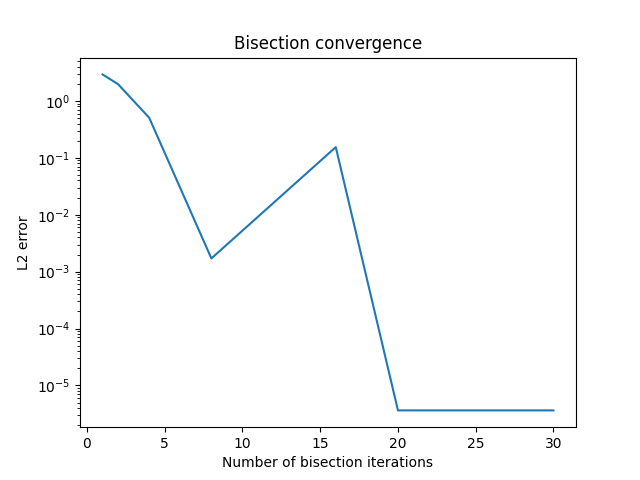
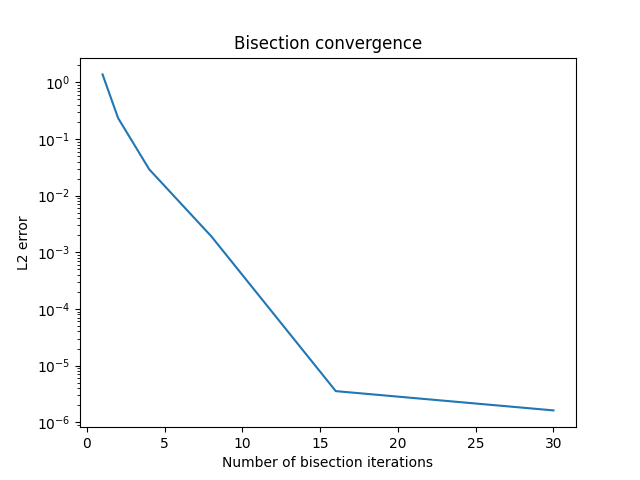
fixed numerical tolerances used in particle traj loop to improve robustness of precision checks + added better examples on curved meshes

diff --git a/test_curved_cell_crossings.py b/test_curved_cell_crossings.py
@@ -6,15 +6,15 @@ from particle_traj_loop import move_particles_in_ref_space
 
 # Define a flat reference mesh
 mesh = UnitSquareMesh(10, 10)
-print("Mesh coords: ", mesh.coordinates.dat.data_ro[:5])
+# print("Mesh coords: ", mesh.coordinates.dat.data_ro[:5])
 
 # Lift coordinates into a degree 2 space
+# by define a non-linear map (s,t) -> (x, y) where
+# (s,t) are the coords. of the flat mesh
+# (x,y) are the coords. of the curved mesh
 V = VectorFunctionSpace(mesh, "CG", 2)
 v = Function(V)
 
-## Define a non-linear map (s,t) -> (x, y)
-# (s,t) are the coords. of the flat mesh
-# (x,y) are the coords. of the curved mesh
 s, t = SpatialCoordinate(mesh)
 
 # x_new = s
@@ -27,13 +27,52 @@ v.interpolate(
     as_vector([x_new, y_new])
 )
 curved_mesh = Mesh(v)
-print("Curved mesh coords: ", curved_mesh.coordinates.dat.data_ro[:5])
+# print("Curved mesh coords: ", curved_mesh.coordinates.dat.data_ro[:5])
 
-fig, axes = plt.subplots()
-triplot(curved_mesh, axes=axes)
-axes.legend()
-plt.savefig(f"plots/curved_mesh.png", dpi=150)
-plt.close(fig)
+# fig, axes = plt.subplots()
+# triplot(curved_mesh, axes=axes)
+# axes.legend()
+# plt.savefig(f"plots/curved_mesh.png", dpi=150)
+# plt.close(fig)
 
-output = VTKFile(f"plots/curved_mesh.pvd")
-output.write(curved_mesh)
+# output = VTKFile(f"plots/curved_mesh.pvd")
+# output.write(curved_mesh)
+
+# Define the particle VOM
+# Place 10 particles at midpoints of the diagonal cell edges: 0.05, 0.15, ..., 0.95
+# These lie on y=x but avoid mesh vertices (which are at multiples of 0.1 for a 10x10 mesh)
+n_particles = 10
+x_diag = np.arange(n_particles) / 10.0 + 0.05
+x0 = np.column_stack([x_diag, x_diag])
+particle_vom = VertexOnlyMesh(curved_mesh, x0)
+x0_vom = particle_vom.coordinates.dat.data_ro.copy()
+print("Initial particle positions: ", particle_vom.coordinates.dat.data_ro)
+
+# Assign per particle velocities
+V = VectorFunctionSpace(particle_vom, "DG", 0, dim=particle_vom.geometric_dimension)
+v = Function(V, name="particle_velocity")
+V_io = VectorFunctionSpace(particle_vom.input_ordering, "DG", 0, dim=particle_vom.geometric_dimension)
+v_io = Function(V_io, name="io_particle_velocity")
+
+v0 = np.array( [0.01, 0.02])
+v_io.dat.data_wo[:] = np.tile(v0, (n_particles, 1))
+v.interpolate(v_io)
+v0_vom = v.dat.data_ro.copy()
+print("Initial particle velocities: ", v0_vom)
+
+T = 7.5
+dt = 0.1
+T_final, removed_particles = move_particles_in_ref_space(particle_vom, mesh, v, dt, T, t=0.0, plot=False)
+
+print()
+print("Final particle positions: ", particle_vom.coordinates.dat.data_ro)
+print("Removed particles: ", removed_particles)
+
+x_final_expected = x0_vom + T_final * v0_vom
+
+keep = np.ones(x_final_expected.shape[0], dtype=bool)
+keep[removed_particles] = False
+x_final_expected_survived = x_final_expected[keep]
+
+print("Expected final positions: ", x_final_expected_survived)
+print("Error: ", np.linalg.norm(x_final_expected_survived - particle_vom.coordinates.dat.data_ro, axis=1))

diff --git a/test_curved_coarse_mesh.py b/test_curved_coarse_mesh.py
@@ -1,0 +1,34 @@
+from firedrake import *
+from firedrake.pyplot import triplot
+import matplotlib.pyplot as plt
+import numpy as np
+
+# Define a flat reference mesh
+mesh = UnitSquareMesh(5, 5) 
+print("Mesh coords: ", mesh.coordinates.dat.data_ro[:5])
+
+# Lift coordinates into a degree 2 space
+V = VectorFunctionSpace(mesh, "CG", 5)
+v = Function(V)
+print("Degree 2 coords: ", v.dat.data_ro[:5])
+
+s,t = SpatialCoordinate(mesh)
+
+# NOTE: sine reaches its full amplitude at the midpoint (s,t) = (0.5, 0.5) giving us
+# a much more visible curvature than using an exact degree 5 polynomial such as
+# 2.0 * s*(1-s)*t*(1-t)*(s+t) which has a tiny max. value hence produces a negligible displacement
+# (use high amplitude to counter suppression)
+x_new = s
+y_new = t + 0.3 * sin(pi * s) * sin(pi * t) # high amplitude can overshoot domain boundaries
+
+v.interpolate(
+    as_vector([x_new, y_new])
+)
+
+curved_mesh = Mesh(v)
+print("Curved mesh coords: ", curved_mesh.coordinates.dat.data_ro[:5])
+
+fig, axes = plt.subplots()
+triplot(curved_mesh, axes=axes)
+axes.legend()
+plt.show()

diff --git a/test_linear_traj_diag_pos.py b/test_linear_traj_diag_pos.py
@@ -11,13 +11,14 @@ and starting positions on the mesh diagonal.
 mesh = UnitSquareMesh(10, 10, quadrilateral=False)
 
 # Define the particle VOM
-# Place 10 particles at midpoints of the diagonal edges: 0.05, 0.15, ..., 0.95
+# Place 10 particles at midpoints of the diagonal cell edges: 0.05, 0.15, ..., 0.95
 # These lie on y=x but avoid mesh vertices (which are at multiples of 0.1 for a 10x10 mesh)
 n_particles = 10
 x_diag = np.arange(n_particles) / 10.0 + 0.05
 x0 = np.column_stack([x_diag, x_diag])
 particle_vom = VertexOnlyMesh(mesh, x0)
-print("Initial particle positions: ", particle_vom.coordinates.dat.data_ro)
+x0_vom = particle_vom.coordinates.dat.data_ro.copy()
+print("Initial particle positions: ", x0_vom)
 
 # Assign per particle velocities
 V = VectorFunctionSpace(particle_vom, "DG", 0, dim=particle_vom.geometric_dimension)
@@ -28,15 +29,27 @@ v_io = Function(V_io, name="io_particle_velocity")
 v0 = np.array( [0.01, 0.02])
 v_io.dat.data_wo[:] = np.tile(v0, (n_particles, 1))
 v.interpolate(v_io)
-print("Initial particle velocities: ", v.dat.data_ro)
+v0_vom = v.dat.data_ro.copy()
+print("Initial particle velocities: ", v0_vom)
 
-# dt=0.1, t=2.5: 1 particle removed
+# dt=0.1, t=2.6: 1 particle removed
 # dt=0.1, t=7.5: 2 particles removed
 T = 7.5
 dt = 0.1
 T_final, removed_particles = move_particles_in_ref_space(particle_vom, mesh, v, dt, T, t=0.0, plot=False)
+
+print()
 print("Final particle positions: ", particle_vom.coordinates.dat.data_ro)
 print("Removed particles: ", removed_particles)
 
 from particle_traj_loop import BISECTION_COUNT
 print("Number of bisection calls to resolve crossings: ", BISECTION_COUNT)
+
+x_final_expected = x0_vom + T_final * v0_vom
+
+keep = np.ones(x_final_expected.shape[0], dtype=bool)
+keep[removed_particles] = False
+x_final_expected_survived = x_final_expected[keep]
+
+print("Expected final positions: ", x_final_expected_survived)
+print("Error: ", np.linalg.norm(x_final_expected_survived - particle_vom.coordinates.dat.data_ro, axis=1))

diff --git a/particle_traj_loop.py b/particle_traj_loop.py
@@ -11,7 +11,7 @@ def move_particles_in_ref_space(
         pmesh, mesh, v_fn, dt, T, t=0.0, 
         max_inner_iters=50, 
         max_bisection_iters=None,
-        bary_tol=1e-7,
+        bary_tol=1e-6,
         plot=False):
     """
     Reconstructs the trajectory of particles using a time stepping scheme in reference space.
@@ -60,11 +60,10 @@ def move_particles_in_ref_space(
         inner_loop_iter = 0
         active_iters = np.zeros(N, dtype=int)
 
-        while inner_loop_iter < max_inner_iters:
-            dt_left_prev = dt_left.copy()
-            
+        while inner_loop_iter < max_inner_iters:            
             # Check if there are any active particles left
-            active = dt_left > 0
+            # A particle remains active if it has more than the equivalent of one bisection tol. of remaining time
+            active = dt_left > 1e-6
             if not np.any(active):
                 break
 
@@ -86,6 +85,9 @@ def move_particles_in_ref_space(
 
             # Compute barycentric coordinates at the new positions
             bary_new = ref_cell.compute_barycentric_coordinates(trial_ref_pos_fn.dat.data_ro)
+
+            # if max_bisection_iters == 30 and inner_loop_iter > 2:
+            #     breakpoint()
 
             # Split particles into passed/failed sets
             passed_mask = np.all(bary_new[active_indices] >= -bary_tol, axis=1)
@@ -150,10 +152,6 @@ def move_particles_in_ref_space(
                     "bary_cross": bary_cross,
                     "X_cross": X_cross,
                 }, indices=failed_global, level="info")
-                                
-                # Zero out dt_left if it hasn't changed from the previous iteration
-                dt_left_stalled = (dt_left > 0) & (dt_left_prev - dt_left < dt * 1e-6)
-                dt_left[dt_left_stalled] = 0
 
                 # logger.inspect_particles()
             
@@ -229,7 +227,7 @@ def move_particles_in_ref_space(
             # 5) Re-enter the inner loop with new ref. coords., parent cells and remaining dt_left
 
             if inner_loop_iter == max_inner_iters:
-                still_active = np.where(dt_left > 0)[0]
+                still_active = np.where(dt_left > 1e-6)[0] # same time tol. as bisection
                 print(
                     f"\n[warning] Inner loop hit max_inner_iters={max_inner_iters}. "
                     f"Remaining active particles: {still_active}, dt_left: {dt_left[still_active]}\n"

diff --git a/test_bisection_convergence.py b/test_bisection_convergence.py
@@ -27,10 +27,10 @@ v0 = np.array( [0.45, 0.25])
 # Time parameters
 # dt controls how many crossings occur (large: allow more crossings, small: few crossings)
 # T controls how much crossing error gets accumulated (longer is better to accumulate signal?)
-T = 2.0
+T = 1.0 # 2.0
 dt = 0.1
 
-bisection_iters = [1, 2, 4, 8, 16, 20, 30]
+bisection_iters = [1, 2, 4, 8, 16, 30] # 20
 errors = []
 bisection_calls = []
 